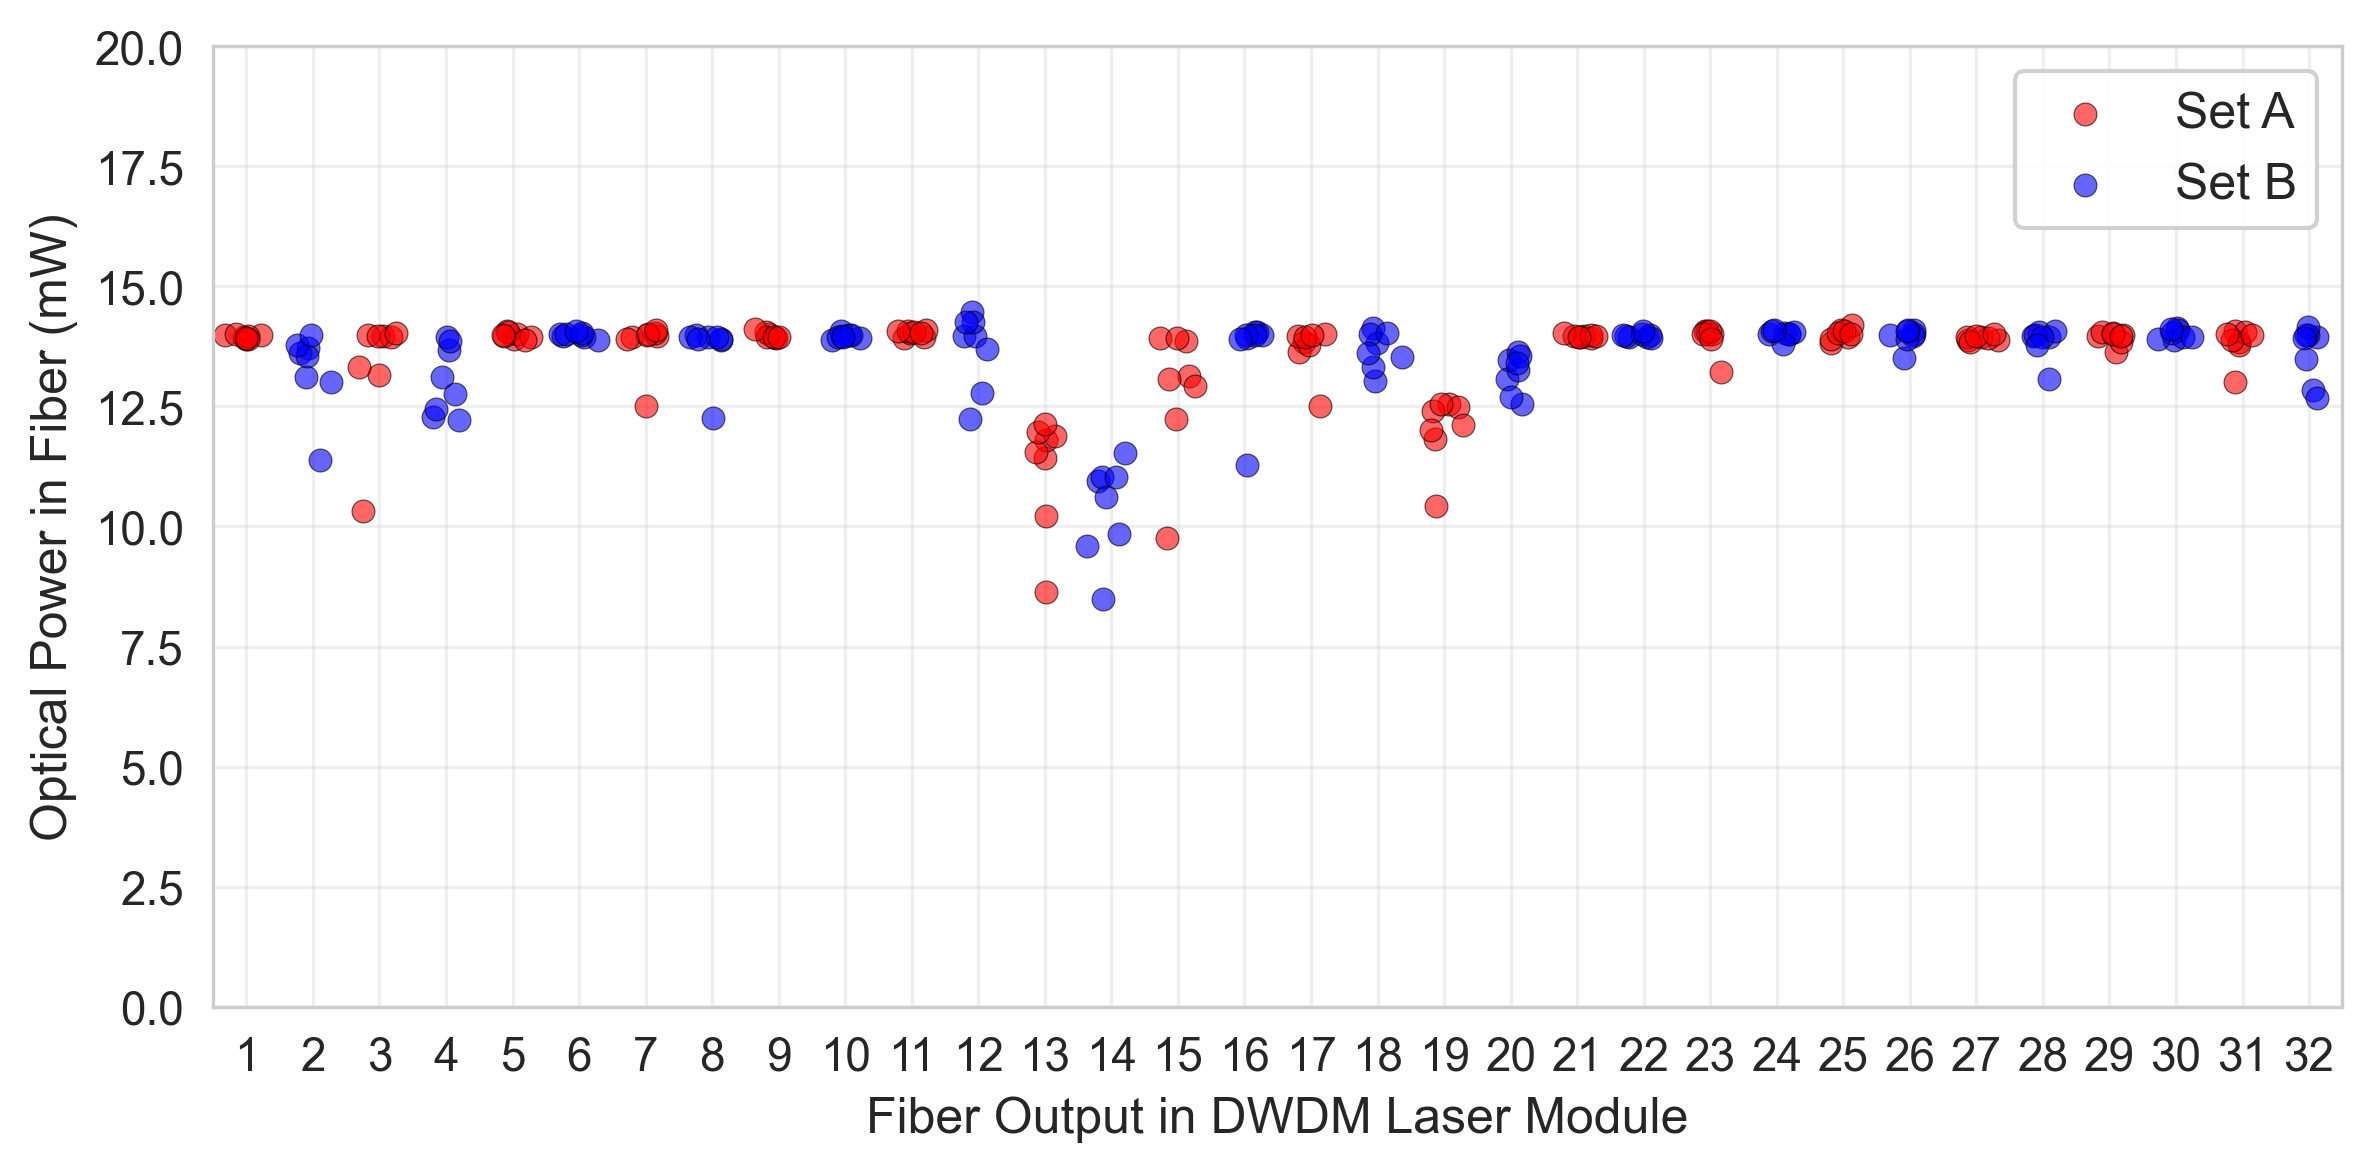
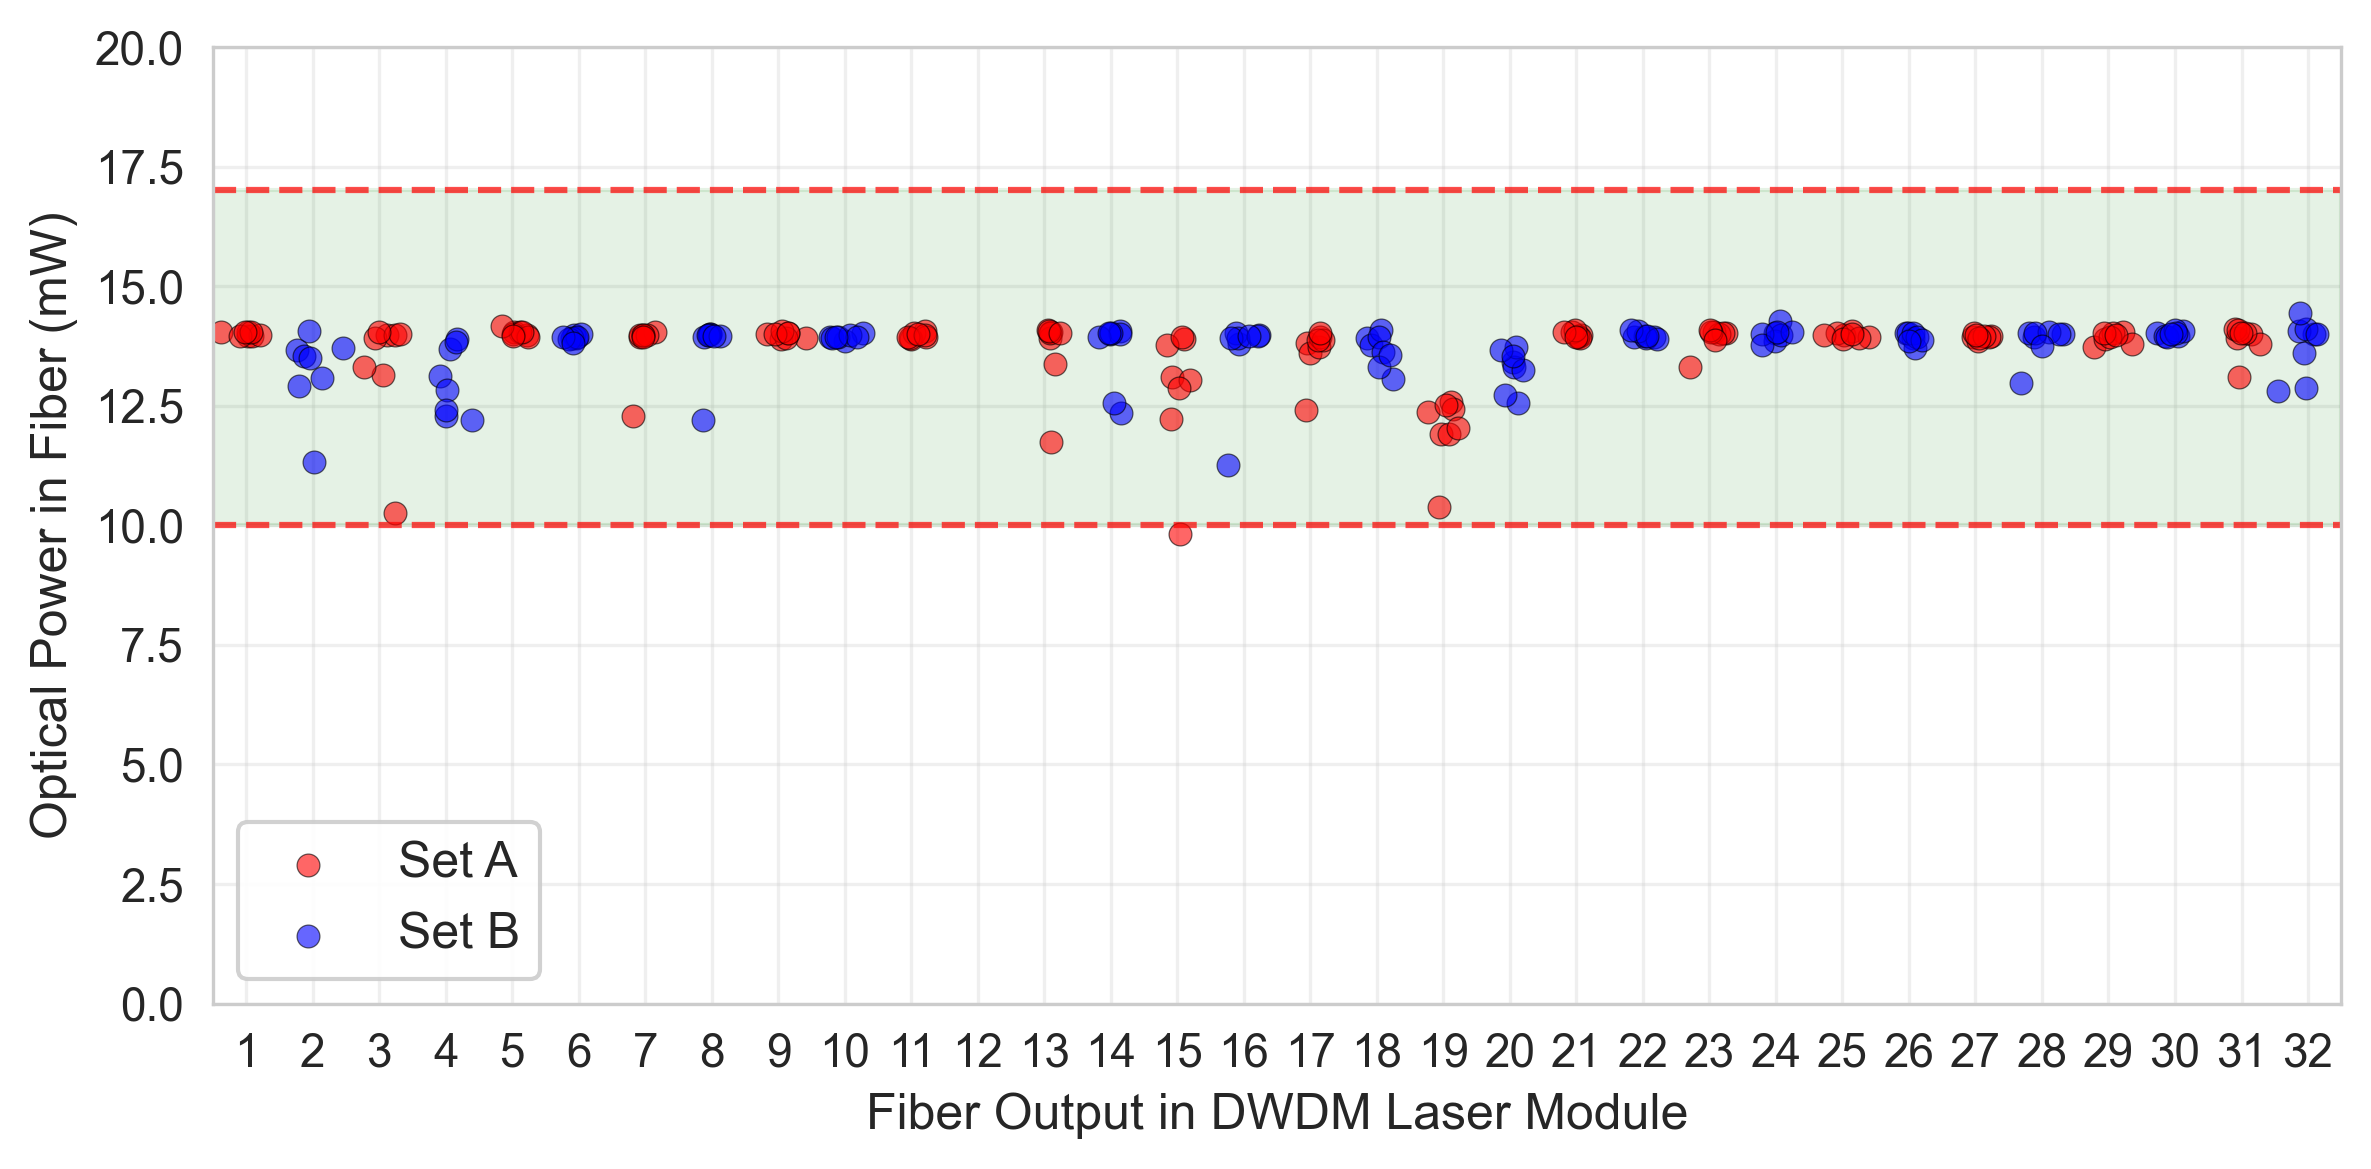
Update 30C operation analysis to use ofc_data.xlsx and add spec range
- Changed data source from '30 and 45 deg data.xlsx' to 'ofc_data.xlsx'
- Updated to use 'cycle_number' instead of 'run_id' to match new file format
- Added spec range highlight (10-17 mW) to optical power plot
- Spec range shown as red dashed lines and green shaded region (no legend label)
- Applied to both analyze_30C_operation() and analyze_30C_freq_error() methods

diff --git a/ips_clm/ips_clm_evt_ofc/analysis_src/module_analysis.py b/ips_clm/ips_clm_evt_ofc/analysis_src/module_analysis.py
@@ -5943,15 +5943,15 @@ class temperature_aggressors_2:
     
     def analyze_30C_operation(self):
         """
-        Analyze 30C operation data from '30 and 45 deg data.xlsx' file.
-        Analyzes only the last run_id and plots pic_mpd_value (in dBm) vs tile_id.
+        Analyze 30C operation data from 'ofc_data.xlsx' file.
+        Analyzes only the last cycle_number and plots pic_mpd_value (in mW) vs fiber number.
         """
         print("\n" + "="*80)
         print("ANALYZING 30C OPERATION DATA")
         print("="*80)
         
         # Path to the Excel file
-        excel_file = self.base_path / 'temperature_aggressors' / '30 and 45 deg data.xlsx'
+        excel_file = self.base_path / 'temperature_aggressors' / 'ofc_data.xlsx'
         
         if not excel_file.exists():
             print(f"Error: Excel file not found at {excel_file}")
@@ -5965,13 +5965,13 @@ class temperature_aggressors_2:
             print(f"Error reading Excel file: {e}")
             return
         
-        # Get the last run_id
-        last_run_id = df_30c['run_id'].max()
-        print(f"Last run_id: {last_run_id}")
+        # Get the last cycle_number (equivalent to run_id in previous file)
+        last_cycle = df_30c['cycle_number'].max()
+        print(f"Last cycle_number: {last_cycle}")
         
-        # Filter to last run_id only
-        df_last = df_30c[df_30c['run_id'] == last_run_id]
-        print(f"Data shape for last run_id: {df_last.shape}")
+        # Filter to last cycle only
+        df_last = df_30c[df_30c['cycle_number'] == last_cycle]
+        print(f"Data shape for last cycle: {df_last.shape}")
         print(f"Tiles: {sorted(df_last['tile_id'].unique())}")
         print(f"Banks: {df_last['bank_type'].unique()}")
         
@@ -6048,6 +6048,11 @@ class temperature_aggressors_2:
         bank_colors = {'BANK_A': 'red', 'BANK_B': 'blue'}
         bank_labels = {'BANK_A': 'Set A', 'BANK_B': 'Set B'}
         
+        # Add spec range highlight (10-17 mW) - no label in legend
+        ax.axhline(y=10, color='red', linestyle='--', linewidth=1.5, alpha=0.7)
+        ax.axhline(y=17, color='red', linestyle='--', linewidth=1.5, alpha=0.7)
+        ax.axhspan(10, 17, color='green', alpha=0.1)
+        
         # Plot for each bank
         for bank in ['BANK_A', 'BANK_B']:
             df_bank = df_plot[df_plot['bank_type'] == bank]
@@ -6095,15 +6100,15 @@ class temperature_aggressors_2:
     
     def analyze_30C_freq_error(self):
         """
-        Analyze 30C operation frequency error data from '30 and 45 deg data.xlsx' file.
-        Analyzes only the last run_id and plots frequency error vs tile_id.
+        Analyze 30C operation frequency error data from 'ofc_data.xlsx' file.
+        Analyzes only the last cycle_number and plots frequency error vs fiber number.
         """
         print("\n" + "="*80)
         print("ANALYZING 30C FREQUENCY ERROR DATA")
         print("="*80)
         
         # Path to the Excel file
-        excel_file = self.base_path / 'temperature_aggressors' / '30 and 45 deg data.xlsx'
+        excel_file = self.base_path / 'temperature_aggressors' / 'ofc_data.xlsx'
         
         if not excel_file.exists():
             print(f"Error: Excel file not found at {excel_file}")
@@ -6117,10 +6122,10 @@ class temperature_aggressors_2:
             print(f"Error reading Excel file: {e}")
             return
         
-        # Get the first run_id for reference wavelengths
-        first_run_id = df_30c['run_id'].min()
-        df_reference = df_30c[df_30c['run_id'] == first_run_id]
-        print(f"Reference run_id: {first_run_id}")
+        # Get the first cycle_number for reference wavelengths
+        first_cycle = df_30c['cycle_number'].min()
+        df_reference = df_30c[df_30c['cycle_number'] == first_cycle]
+        print(f"Reference cycle_number: {first_cycle}")
         
         # Store reference wavelengths for each tile and bank
         ref_wavelengths = {}
@@ -6137,13 +6142,13 @@ class temperature_aggressors_2:
         
         print(f"Loaded reference wavelengths for {len(ref_wavelengths)} tile-bank combinations")
         
-        # Get the last run_id
-        last_run_id = df_30c['run_id'].max()
-        print(f"Last run_id: {last_run_id}")
+        # Get the last cycle_number
+        last_cycle = df_30c['cycle_number'].max()
+        print(f"Last cycle_number: {last_cycle}")
         
-        # Filter to last run_id only
-        df_last = df_30c[df_30c['run_id'] == last_run_id]
-        print(f"Data shape for last run_id: {df_last.shape}")
+        # Filter to last cycle only
+        df_last = df_30c[df_30c['cycle_number'] == last_cycle]
+        print(f"Data shape for last cycle: {df_last.shape}")
         print(f"Tiles: {sorted(df_last['tile_id'].unique())}")
         print(f"Banks: {df_last['bank_type'].unique()}")
         
